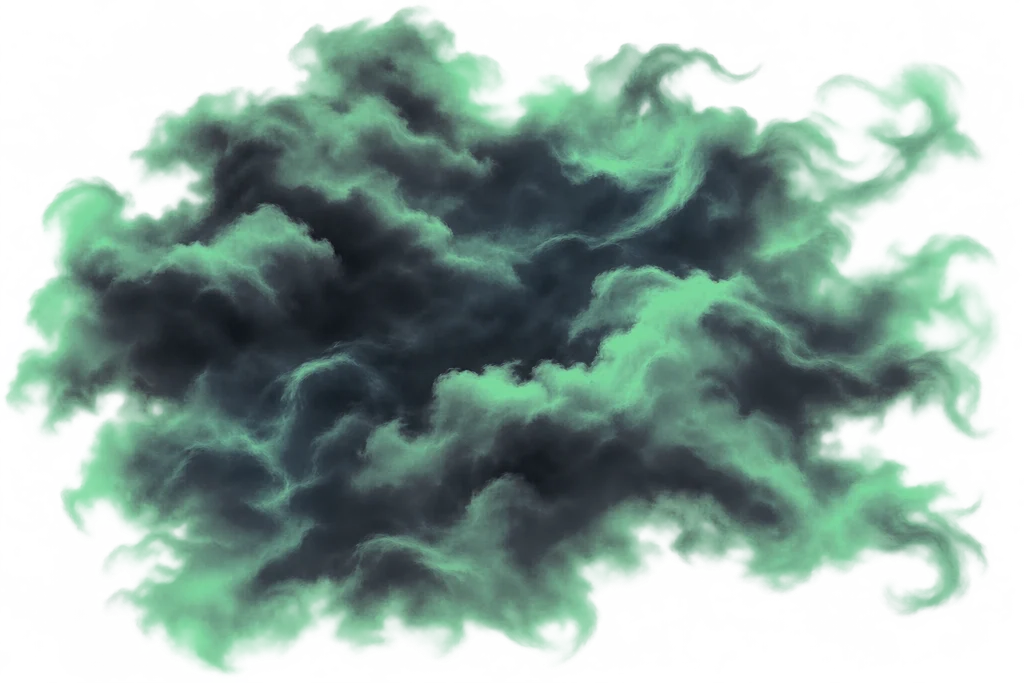
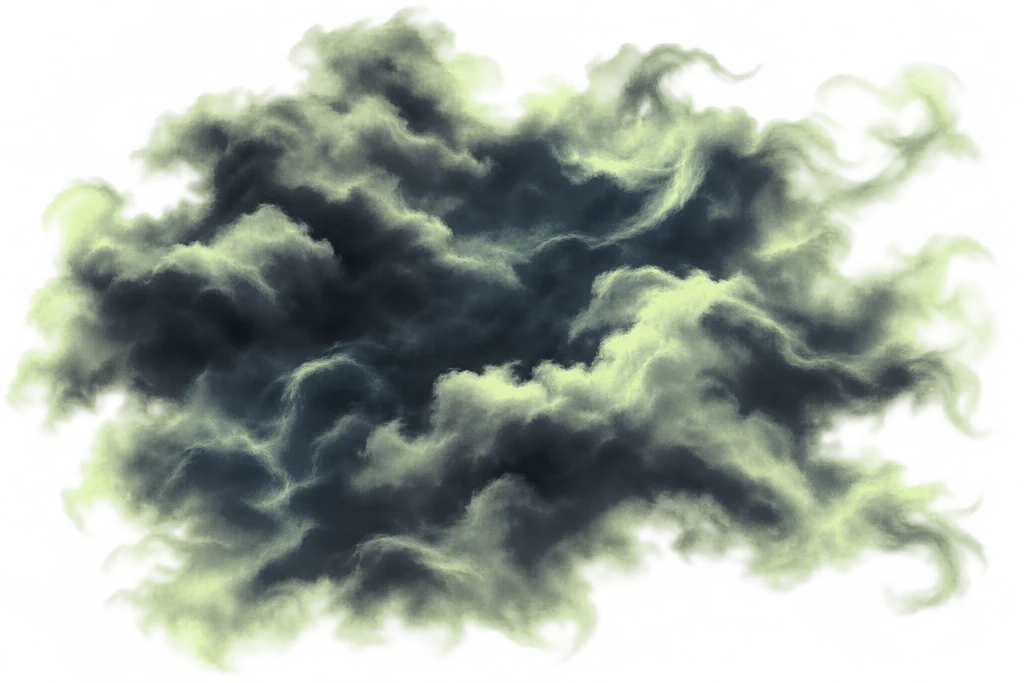
feat: improve map navigation and vitality fog

diff --git a/docs/index.html b/docs/index.html
@@ -1,4 +1,4 @@
-<!doctype html><html lang="en"><head><meta charset="utf-8"><meta name="viewport" content="width=device-width, initial-scale=1,viewport-fit=cover"><meta name="theme-color" content="#170d12"><link rel="stylesheet" href="online/style.css"><link rel="stylesheet" href="combat/action-bar.css?v=cb92b41d39d8"><script src="combat/action-bar.js?v=fd551036f4bf"></script><script src="combat/arena-hud.js?v=dd03bb5d7644"></script><title>Wanderer v0.13</title><link rel="stylesheet" href="online/v012-phase1.css?v=v012-production-ui-1"><link rel="stylesheet" href="online/ux39.css"><link rel="icon" type="image/png" sizes="32x32" href="assets/branding/wanderer-icon-32.png"><link rel="apple-touch-icon" sizes="192x192" href="assets/branding/wanderer-icon-192.png"><link rel="stylesheet" href="online/v012-core.css"><link rel="stylesheet" href="online/v012-ui4.css"><link rel="stylesheet" href="online/v012-ui4c.css"><link rel="stylesheet" href="online/v012-ui4e.css"><link rel="stylesheet" href="online/v012-ui4f.css"><link rel="stylesheet" href="online/v012-ui5-camp.css"><link rel="stylesheet" href="online/v012-ui6-unified-inventory.css"><link rel="stylesheet" href="online/v012-uiux-polish.css"><link rel="stylesheet" href="online/v012-uiux-final-qa.css"><link rel="stylesheet" href="online/v012-uiux-hotfix-oct25.css"><link rel="stylesheet" href="online/v012-uiux-round4.css"><link rel="stylesheet" href="online/v012-uiux-tuning.css?v=508ce4f90943"><link rel="stylesheet" href="online/v012-combat-passive-clarity.css"><link rel="stylesheet" href="online/v012-feedback-passive-ui.css?v=20261025-main-compact-1"><link rel="stylesheet" href="online/v012-required-auth.css?v=v012-equipped-gear-1"><link rel="stylesheet" href="online/v013-combat-arena.css?v=83568c3ba73f"><link rel="stylesheet" href="online/v013-arena-hud.css?v=34efdc897f76"><link rel="stylesheet" href="online/v013-tier-upgrade.css?v=4b68f4bdbbdc"><link rel="stylesheet" href="online/v013-stage45-map-qa.css?v=4c507abc5c2b"><link rel="stylesheet" href="online/v013-stage5-conditions.css?v=65cdb547cc5f"><link rel="stylesheet" href="online/v013-expedition-boons.css?v=d9dc85aa20f9"><link rel="stylesheet" href="online/v013-expedition-contracts.css?v=6506cd9a761b"><link rel="stylesheet" href="online/v013-gear-qol.css?v=446f088e0147"><style>#onlineBar{display:none!important}</style></head><body class="v012Preboot"><div class="container"><header class="brandRow"><div><div class="logo brandLogo" id="brandLogo"><span>WANDERER</span></div><div class="version">v0.13.0</div></div><div id="onlineBar" class="onlineBar"><button type="button" id="menuToggle" class="mobileMenuToggle" aria-label="Open account and leaderboard menu" aria-controls="onlineActions" aria-expanded="false"><span></span><span></span><span></span></button><div id="onlineActions" class="buttonRow"><button class="tiny" data-online-action="account">Account & Character</button><button class="tiny" data-online-action="leaderboard">Leaderboard</button><button class="tiny" data-online-action="feedback">Feedback &amp; Bugs</button></div></div></header><div class="headerBottom"><nav id="nav" class="nav" inert></nav><div class="wallet" id="wallet" role="region" aria-label="Resource balances"></div></div><p id="accountError" class="onlineError" role="alert" hidden></p><main id="screen" inert></main></div><div id="toast" class="toast hidden"></div><script src="combat/expedition-progression.js?v=5f55e70326b2"></script><script src="economy/v013-crafting.js?v=d1db5f26290a"></script><script src="economy/v013-gear-rolls.js?v=acb2565fb200"></script><script src="economy/v013-tier-upgrade.js?v=99a24a7a813f"></script><script src="online/v012-save.js?v=a7c18e7ade88"></script><script src="economy/v0101.js"></script><script src="combat/legendary.js"></script><script src="combat/v013-expedition-foundation.js"></script><script src="online/v013-map-intelligence.js?v=220fdeab7f5a"></script><script src="online/v013-map-fog.js?v=2848172215bc"></script><script src="online/v013-expedition-conditions.js?v=2f1becafd401"></script><script src="online/v013-expedition-boons.js?v=165a224aec70"></script><script src="online/v013-expedition-contracts.js?v=a4aa1cd73945"></script><script src="online/v013-encounter-traits.js"></script><script src="online/v013-boss-modifiers.js"></script><script src="online/v013-boss-preparation.js"></script><script src="online/v013-enemy-roster.js?v=75038d2dcc21"></script>
+<!doctype html><html lang="en"><head><meta charset="utf-8"><meta name="viewport" content="width=device-width, initial-scale=1,viewport-fit=cover"><meta name="theme-color" content="#170d12"><link rel="stylesheet" href="online/style.css"><link rel="stylesheet" href="combat/action-bar.css?v=cb92b41d39d8"><script src="combat/action-bar.js?v=fd551036f4bf"></script><script src="combat/arena-hud.js?v=dd03bb5d7644"></script><title>Wanderer v0.13</title><link rel="stylesheet" href="online/v012-phase1.css?v=v012-production-ui-1"><link rel="stylesheet" href="online/ux39.css"><link rel="icon" type="image/png" sizes="32x32" href="assets/branding/wanderer-icon-32.png"><link rel="apple-touch-icon" sizes="192x192" href="assets/branding/wanderer-icon-192.png"><link rel="stylesheet" href="online/v012-core.css"><link rel="stylesheet" href="online/v012-ui4.css"><link rel="stylesheet" href="online/v012-ui4c.css"><link rel="stylesheet" href="online/v012-ui4e.css"><link rel="stylesheet" href="online/v012-ui4f.css"><link rel="stylesheet" href="online/v012-ui5-camp.css"><link rel="stylesheet" href="online/v012-ui6-unified-inventory.css"><link rel="stylesheet" href="online/v012-uiux-polish.css"><link rel="stylesheet" href="online/v012-uiux-final-qa.css"><link rel="stylesheet" href="online/v012-uiux-hotfix-oct25.css"><link rel="stylesheet" href="online/v012-uiux-round4.css"><link rel="stylesheet" href="online/v012-uiux-tuning.css?v=508ce4f90943"><link rel="stylesheet" href="online/v012-combat-passive-clarity.css"><link rel="stylesheet" href="online/v012-feedback-passive-ui.css?v=20261025-main-compact-1"><link rel="stylesheet" href="online/v012-required-auth.css?v=v012-equipped-gear-1"><link rel="stylesheet" href="online/v013-combat-arena.css?v=83568c3ba73f"><link rel="stylesheet" href="online/v013-arena-hud.css?v=34efdc897f76"><link rel="stylesheet" href="online/v013-tier-upgrade.css?v=4b68f4bdbbdc"><link rel="stylesheet" href="online/v013-stage45-map-qa.css?v=1bc233df9f40"><link rel="stylesheet" href="online/v013-stage5-conditions.css?v=65cdb547cc5f"><link rel="stylesheet" href="online/v013-expedition-boons.css?v=d9dc85aa20f9"><link rel="stylesheet" href="online/v013-expedition-contracts.css?v=6506cd9a761b"><link rel="stylesheet" href="online/v013-gear-qol.css?v=446f088e0147"><style>#onlineBar{display:none!important}</style></head><body class="v012Preboot"><div class="container"><header class="brandRow"><div><div class="logo brandLogo" id="brandLogo"><span>WANDERER</span></div><div class="version">v0.13.0</div></div><div id="onlineBar" class="onlineBar"><button type="button" id="menuToggle" class="mobileMenuToggle" aria-label="Open account and leaderboard menu" aria-controls="onlineActions" aria-expanded="false"><span></span><span></span><span></span></button><div id="onlineActions" class="buttonRow"><button class="tiny" data-online-action="account">Account & Character</button><button class="tiny" data-online-action="leaderboard">Leaderboard</button><button class="tiny" data-online-action="feedback">Feedback &amp; Bugs</button></div></div></header><div class="headerBottom"><nav id="nav" class="nav" inert></nav><div class="wallet" id="wallet" role="region" aria-label="Resource balances"></div></div><p id="accountError" class="onlineError" role="alert" hidden></p><main id="screen" inert></main></div><div id="toast" class="toast hidden"></div><script src="combat/expedition-progression.js?v=5f55e70326b2"></script><script src="economy/v013-crafting.js?v=d1db5f26290a"></script><script src="economy/v013-gear-rolls.js?v=acb2565fb200"></script><script src="economy/v013-tier-upgrade.js?v=99a24a7a813f"></script><script src="online/v012-save.js?v=a7c18e7ade88"></script><script src="economy/v0101.js"></script><script src="combat/legendary.js"></script><script src="combat/v013-expedition-foundation.js"></script><script src="online/v013-map-intelligence.js?v=220fdeab7f5a"></script><script src="online/v013-map-fog.js?v=ef58ba907563"></script><script src="online/v013-expedition-conditions.js?v=2f1becafd401"></script><script src="online/v013-expedition-boons.js?v=165a224aec70"></script><script src="online/v013-expedition-contracts.js?v=a4aa1cd73945"></script><script src="online/v013-encounter-traits.js"></script><script src="online/v013-boss-modifiers.js"></script><script src="online/v013-boss-preparation.js"></script><script src="online/v013-enemy-roster.js?v=75038d2dcc21"></script>
 <script src="online/v013-enemy-abilities.js?v=866211ebdefa"></script>
 <script src="online/v013-elite-abilities.js?v=d13c8025441c"></script>
 <script src="online/v013-boss-infrastructure.js?v=149b9a3cd961"></script>
@@ -1848,7 +1848,7 @@ function dungeonMapMarkup(g){
  const contract=globalThis.WandererV013ExpeditionContracts?.inspect(g);
  const contractMarkup=contract?(contract.status==='ignored'?'<p class="stage7ContractStatus"><strong>Contract:</strong> Declined · No optional reward</p>':
   '<section class="stage7ContractStatus" aria-label="Contract progress"><div><strong>✦ '+esc(contract.name)+'</strong><span>'+contract.progress+' / '+contract.target+' · '+(contract.status==='ready'?'Ready to claim on extraction':contract.status==='completed'?'Reward secured':'In progress')+'</span></div><progress max="'+contract.target+'" value="'+contract.progress+'">'+contract.progress+' of '+contract.target+'</progress><small>Reward on successful extraction: '+esc(globalThis.WandererV013ExpeditionContracts.label(contract.potential))+'</small></section>'):'';
- return '<h2 class="realmMapTitle">'+esc(c.name)+'</h2><div class="realmMapLayout"><aside class="realmMapSide" aria-label="Expedition information"><details class="realmMapInfo" '+(typeof matchMedia==='function'&&matchMedia('(max-width:700px)').matches?'':'open')+'><summary>Expedition info</summary><div class="realmAtGlance">'+(contract?'<div><b>✦ '+esc(contract.name)+'</b><span>'+esc(globalThis.WandererV013ExpeditionContracts?.DESCRIPTIONS?.[contract.id]?.objective||'')+' · '+contract.progress+'/'+contract.target+' · '+(contract.status==='ready'?'Ready':contract.status==='completed'?'Complete':contract.status==='ignored'?'Declined':'In progress')+'</span></div>':'')+'<div><b>⚠ '+esc(conditionInfo?.name||'Condition')+'</b><span>'+esc(conditionGuide?.danger||'')+'</span></div><div class="realmBoonGlance"><b>✦ Boons '+boonNames.length+'/2</b><span>'+esc(boonNames.join(' · ')||'None chosen')+'</span></div></div><details class="realmBrief"><summary>More expedition details</summary>'+contractMarkup+'<p class="stage6BoonSummary"><strong>Expedition Boons ('+boonNames.length+'/2)</strong> · '+esc(boonNames.join(' · ')||'None chosen')+'</p><p class="stage5Condition"><b>⚠ '+esc(conditionInfo?.name||'Condition')+'</b> — '+esc(conditionGuide?.danger||'')+' <span>Counterplay: '+esc(conditionGuide?.counter||'')+'</span></p><p>'+realmDifficulty(c)+' · '+esc(c.family)+' affinity · '+g.history.length+' rooms cleared'+(c.clueRoom!==undefined?(d.cleared.includes(c.clueRoom)?' · Tracks lead to the outer end of passage '+(c.bossSector+1)+'.':' · Tracks between passages '+(c.bossSector+1)+' and '+(c.secondSector+1)+'. Search the inner rooms for a clearer trail.'):c.bossSector!==undefined?' · Boss trail follows passage '+(c.bossSector+1)+'.':'')+(prep?.markedElite?' · <strong>Marked Elite defeated: '+(c.risk?'one fewer boss guard':'−10% boss Attack')+'</strong>':'')+(prep?.disabledId?' · <strong>Boss seal disrupted: '+esc(WandererV013BossModifiers.get(prep.disabledId)?.name||'property')+'</strong>':'')+(prep?.knownIds.length>1?' · <strong>Oracle revealed: '+esc(prep.knownIds.slice(1).map(id=>WandererV013BossModifiers.get(id)?.name||id).join(', '))+'</strong>':'')+'</p></details></details></aside><div class="realmMapMain">'+(d.steps===undefined?'':'<div class="realmSteps" role="status"><span>STEPS REMAINING</span><strong>'+d.steps+' <small>/ '+c.stepLimit+'</small></strong><span>Travel cost shown when selecting a room</span></div>')+'<div data-realm-viewport style="overflow-x:auto"><div class="realmMapCanvas" data-realm-map="'+esc(c.id)+'" data-map-affinity="'+esc(c.family)+'" style="position:relative;min-width:580px;height:'+(c.positions?'800':'225')+'px">'+fog+'<svg aria-hidden="true" style="position:absolute;width:100%;height:100%" viewBox="0 0 100 100" preserveAspectRatio="none">'+lines+'</svg>'+buttons+'</div></div><p class="realmMapScrollHint">Swipe sideways to explore the map ↔</p><div class="realmMapLegend" aria-label="Map legend"><span>⚔ Combat</span><span>✧ Shrine</span><span>? Event</span><span>✦ Elite</span><span>♛ Boss</span><span><i class="legendCurrent"></i> You</span><span><i class="legendCleared"></i> Cleared</span><span><i class="legendRoute"></i> Selected route</span><span>┄ Exit</span></div><p class="small muted realmMapNote">Select a room to preview its route and cost. Cleared rooms can reduce travel cost.</p>'+utilityPanel+'</div></div>';
+ return '<h2 class="realmMapTitle">'+esc(c.name)+'</h2><div class="realmMapLayout"><aside class="realmMapSide" aria-label="Expedition information"><details class="realmMapInfo" '+(typeof matchMedia==='function'&&matchMedia('(max-width:700px)').matches?'':'open')+'><summary>Expedition info</summary><div class="realmAtGlance">'+(contract?'<div><b>✦ '+esc(contract.name)+'</b><span>'+esc(globalThis.WandererV013ExpeditionContracts?.DESCRIPTIONS?.[contract.id]?.objective||'')+' · '+contract.progress+'/'+contract.target+' · '+(contract.status==='ready'?'Ready':contract.status==='completed'?'Complete':contract.status==='ignored'?'Declined':'In progress')+'</span></div>':'')+'<div><b>⚠ '+esc(conditionInfo?.name||'Condition')+'</b><span>'+esc(conditionGuide?.danger||'')+'</span></div><div class="realmBoonGlance"><b>✦ Boons '+boonNames.length+'/2</b><span>'+esc(boonNames.join(' · ')||'None chosen')+'</span></div></div><details class="realmBrief"><summary>More expedition details</summary>'+contractMarkup+'<p class="stage6BoonSummary"><strong>Expedition Boons ('+boonNames.length+'/2)</strong> · '+esc(boonNames.join(' · ')||'None chosen')+'</p><p class="stage5Condition"><b>⚠ '+esc(conditionInfo?.name||'Condition')+'</b> — '+esc(conditionGuide?.danger||'')+' <span>Counterplay: '+esc(conditionGuide?.counter||'')+'</span></p><p>'+realmDifficulty(c)+' · '+esc(c.family)+' affinity · '+g.history.length+' rooms cleared'+(c.clueRoom!==undefined?(d.cleared.includes(c.clueRoom)?' · Tracks lead to the outer end of passage '+(c.bossSector+1)+'.':' · Tracks between passages '+(c.bossSector+1)+' and '+(c.secondSector+1)+'. Search the inner rooms for a clearer trail.'):c.bossSector!==undefined?' · Boss trail follows passage '+(c.bossSector+1)+'.':'')+(prep?.markedElite?' · <strong>Marked Elite defeated: '+(c.risk?'one fewer boss guard':'−10% boss Attack')+'</strong>':'')+(prep?.disabledId?' · <strong>Boss seal disrupted: '+esc(WandererV013BossModifiers.get(prep.disabledId)?.name||'property')+'</strong>':'')+(prep?.knownIds.length>1?' · <strong>Oracle revealed: '+esc(prep.knownIds.slice(1).map(id=>WandererV013BossModifiers.get(id)?.name||id).join(', '))+'</strong>':'')+'</p></details></details></aside><div class="realmMapMain">'+(d.steps===undefined?'':'<div class="realmSteps" role="status"><span>STEPS REMAINING</span><strong>'+d.steps+' <small>/ '+c.stepLimit+'</small></strong><span>Travel cost shown when selecting a room</span></div>')+'<div class="realmZoomControls" role="group" aria-label="Map zoom"><button type="button" data-map-zoom="out" aria-label="Zoom out">−</button><span data-map-zoom-value aria-live="polite">100%</span><button type="button" data-map-zoom="in" aria-label="Zoom in">+</button></div><div data-realm-viewport><div class="realmMapScale"><div class="realmMapCanvas" data-realm-map="'+esc(c.id)+'" data-map-affinity="'+esc(c.family)+'" style="position:relative;min-width:580px;height:'+(c.positions?'800':'225')+'px">'+fog+'<svg aria-hidden="true" style="position:absolute;width:100%;height:100%" viewBox="0 0 100 100" preserveAspectRatio="none">'+lines+'</svg>'+buttons+'</div></div><p class="realmMapScrollHint">Swipe sideways to explore the map ↔</p><div class="realmMapLegend" aria-label="Map legend"><span>⚔ Combat</span><span>✧ Shrine</span><span>? Event</span><span>✦ Elite</span><span>♛ Boss</span><span><i class="legendCurrent"></i> You</span><span><i class="legendCleared"></i> Cleared</span><span><i class="legendRoute"></i> Selected route</span><span>┄ Exit</span></div><p class="small muted realmMapNote">Select a room to preview its route and cost. Cleared rooms can reduce travel cost.</p>'+utilityPanel+'</div></div>';
 }
 function phase3ContractBlueprintPreview(prize,level){
  const id=prize?.recipeId,C=globalThis.WandererV013Crafting;
@@ -1933,6 +1933,21 @@ function renderRealmCards(g){
  Q('[data-realm-card]').forEach(b=>b.onclick=()=>{phase1Controller.chooseRealm(b.dataset.realmCard);phase1Controller.offerContracts(state.crafting?.learnedRecipes||[]);if(phase5Persist())render();});
  $('phase1BackToCamp').onclick=phase6BackToCamp;
 }
+let phase3MapView=null;
+function phase3BindRealmMap(viewport,g){
+ const canvas=viewport.querySelector('.realmMapCanvas'),scaleBox=viewport.querySelector('.realmMapScale'),controls=viewport.parentElement.querySelector('.realmZoomControls');if(!canvas||!scaleBox||!controls)return;
+ const key=[g.expedition,g.dungeon.realm,g.dungeon.foundationManifest?.seed].join(':'),saved=phase3MapView?.key===key?phase3MapView:null;
+ const mobile=matchMedia('(max-width:600px)').matches,baseWidth=Math.max(mobile?1200:580,viewport.clientWidth),baseHeight=mobile?520:800;
+ let zoom=saved?.zoom||1,drag=null,dragged=false;
+ const apply=(centerX=viewport.clientWidth/2,centerY=viewport.clientHeight/2,next=zoom)=>{const x=(viewport.scrollLeft+centerX)/zoom,y=(viewport.scrollTop+centerY)/zoom;zoom=Math.max(1,Math.min(2.5,next));canvas.style.width=baseWidth+'px';canvas.style.height=baseHeight+'px';canvas.style.transform='scale('+zoom+')';scaleBox.style.width=baseWidth*zoom+'px';scaleBox.style.height=baseHeight*zoom+'px';viewport.scrollLeft=x*zoom-centerX;viewport.scrollTop=y*zoom-centerY;controls.querySelector('[data-map-zoom-value]').textContent=Math.round(zoom*100)+'%';controls.querySelector('[data-map-zoom="out"]').disabled=zoom<=1;controls.querySelector('[data-map-zoom="in"]').disabled=zoom>=2.5;phase3MapView={key,zoom,left:viewport.scrollLeft,top:viewport.scrollTop};};
+ apply();if(saved){viewport.scrollLeft=saved.left;viewport.scrollTop=saved.top;}else{const current=viewport.querySelector('[data-dungeon-room="'+g.dungeon.current+'"]');if(current)viewport.scrollLeft=current.offsetLeft-viewport.clientWidth/2;}
+ const save=()=>{phase3MapView={key,zoom,left:viewport.scrollLeft,top:viewport.scrollTop};};viewport.addEventListener('scroll',save,{passive:true});
+ controls.querySelector('[data-map-zoom="in"]').onclick=()=>apply(undefined,undefined,zoom+.25);controls.querySelector('[data-map-zoom="out"]').onclick=()=>apply(undefined,undefined,zoom-.25);
+ viewport.addEventListener('wheel',e=>{if(!e.ctrlKey&&!e.metaKey)return;e.preventDefault();const r=viewport.getBoundingClientRect();apply(e.clientX-r.left,e.clientY-r.top,zoom+(e.deltaY<0?.25:-.25));},{passive:false});
+ viewport.addEventListener('pointerdown',e=>{if(e.button!==0||e.target.closest('button'))return;drag={x:e.clientX,y:e.clientY,left:viewport.scrollLeft,top:viewport.scrollTop};dragged=false;viewport.setPointerCapture(e.pointerId);});
+ viewport.addEventListener('pointermove',e=>{if(!drag)return;const dx=e.clientX-drag.x,dy=e.clientY-drag.y;if(Math.abs(dx)+Math.abs(dy)>4)dragged=true;viewport.scrollLeft=drag.left-dx;viewport.scrollTop=drag.top-dy;});
+ const end=()=>{drag=null;if(dragged)save();};viewport.addEventListener('pointerup',end);viewport.addEventListener('pointercancel',end);
+}
 function bindDungeonRooms(g){
  const c=phase1Controller.realmMap();
  Q('[data-stage74-potion]').forEach(button=>button.onclick=()=>{
@@ -1948,7 +1963,7 @@ function bindDungeonRooms(g){
  });
  const viewport=document.querySelector('[data-realm-viewport]');
  globalThis.WandererV013MapFog?.bind(viewport);
- if(viewport&&c.positions){const current=viewport.querySelector('[data-dungeon-room="'+g.dungeon.current+'"]');if(current)viewport.scrollLeft=current.offsetLeft-viewport.clientWidth/2;}
+ if(viewport&&c.positions)phase3BindRealmMap(viewport,g);
  Q('[data-dungeon-room]').forEach(b=>b.onclick=()=>{
   const i=Number(b.dataset.dungeonRoom),n=c.nodes[i],cleared=g.dungeon.cleared.includes(i);
   const path=phase1Controller.travelPath(i);
@@ -1971,6 +1986,7 @@ function bindDungeonRooms(g){
    if(cleared||n.kind==='shrine'){if(phase5Persist())render();}else phase1Enter();
   },cleared?'Travel here':'Enter room');
   dialog.classList.add('realmRouteDialog');
+  for(const corner of ['tl','tr','bl','br']){const ornament=document.createElement('span');ornament.className='realmDialogCorner realmDialogCorner-'+corner;ornament.setAttribute('aria-hidden','true');dialog.appendChild(ornament);}
   dialog.addEventListener('close',()=>highlighted.forEach(line=>{line.classList.remove('realmRouteSelected');line.style.removeProperty('stroke');}));
  });
 }

diff --git a/index.html b/index.html
@@ -1848,7 +1848,7 @@ function dungeonMapMarkup(g){
  const contract=globalThis.WandererV013ExpeditionContracts?.inspect(g);
  const contractMarkup=contract?(contract.status==='ignored'?'<p class="stage7ContractStatus"><strong>Contract:</strong> Declined · No optional reward</p>':
   '<section class="stage7ContractStatus" aria-label="Contract progress"><div><strong>✦ '+esc(contract.name)+'</strong><span>'+contract.progress+' / '+contract.target+' · '+(contract.status==='ready'?'Ready to claim on extraction':contract.status==='completed'?'Reward secured':'In progress')+'</span></div><progress max="'+contract.target+'" value="'+contract.progress+'">'+contract.progress+' of '+contract.target+'</progress><small>Reward on successful extraction: '+esc(globalThis.WandererV013ExpeditionContracts.label(contract.potential))+'</small></section>'):'';
- return '<h2 class="realmMapTitle">'+esc(c.name)+'</h2><div class="realmMapLayout"><aside class="realmMapSide" aria-label="Expedition information"><details class="realmMapInfo" '+(typeof matchMedia==='function'&&matchMedia('(max-width:700px)').matches?'':'open')+'><summary>Expedition info</summary><div class="realmAtGlance">'+(contract?'<div><b>✦ '+esc(contract.name)+'</b><span>'+esc(globalThis.WandererV013ExpeditionContracts?.DESCRIPTIONS?.[contract.id]?.objective||'')+' · '+contract.progress+'/'+contract.target+' · '+(contract.status==='ready'?'Ready':contract.status==='completed'?'Complete':contract.status==='ignored'?'Declined':'In progress')+'</span></div>':'')+'<div><b>⚠ '+esc(conditionInfo?.name||'Condition')+'</b><span>'+esc(conditionGuide?.danger||'')+'</span></div><div class="realmBoonGlance"><b>✦ Boons '+boonNames.length+'/2</b><span>'+esc(boonNames.join(' · ')||'None chosen')+'</span></div></div><details class="realmBrief"><summary>More expedition details</summary>'+contractMarkup+'<p class="stage6BoonSummary"><strong>Expedition Boons ('+boonNames.length+'/2)</strong> · '+esc(boonNames.join(' · ')||'None chosen')+'</p><p class="stage5Condition"><b>⚠ '+esc(conditionInfo?.name||'Condition')+'</b> — '+esc(conditionGuide?.danger||'')+' <span>Counterplay: '+esc(conditionGuide?.counter||'')+'</span></p><p>'+realmDifficulty(c)+' · '+esc(c.family)+' affinity · '+g.history.length+' rooms cleared'+(c.clueRoom!==undefined?(d.cleared.includes(c.clueRoom)?' · Tracks lead to the outer end of passage '+(c.bossSector+1)+'.':' · Tracks between passages '+(c.bossSector+1)+' and '+(c.secondSector+1)+'. Search the inner rooms for a clearer trail.'):c.bossSector!==undefined?' · Boss trail follows passage '+(c.bossSector+1)+'.':'')+(prep?.markedElite?' · <strong>Marked Elite defeated: '+(c.risk?'one fewer boss guard':'−10% boss Attack')+'</strong>':'')+(prep?.disabledId?' · <strong>Boss seal disrupted: '+esc(WandererV013BossModifiers.get(prep.disabledId)?.name||'property')+'</strong>':'')+(prep?.knownIds.length>1?' · <strong>Oracle revealed: '+esc(prep.knownIds.slice(1).map(id=>WandererV013BossModifiers.get(id)?.name||id).join(', '))+'</strong>':'')+'</p></details></details></aside><div class="realmMapMain">'+(d.steps===undefined?'':'<div class="realmSteps" role="status"><span>STEPS REMAINING</span><strong>'+d.steps+' <small>/ '+c.stepLimit+'</small></strong><span>Travel cost shown when selecting a room</span></div>')+'<div data-realm-viewport style="overflow-x:auto"><div class="realmMapCanvas" data-realm-map="'+esc(c.id)+'" data-map-affinity="'+esc(c.family)+'" style="position:relative;min-width:580px;height:'+(c.positions?'800':'225')+'px">'+fog+'<svg aria-hidden="true" style="position:absolute;width:100%;height:100%" viewBox="0 0 100 100" preserveAspectRatio="none">'+lines+'</svg>'+buttons+'</div></div><p class="realmMapScrollHint">Swipe sideways to explore the map ↔</p><div class="realmMapLegend" aria-label="Map legend"><span>⚔ Combat</span><span>✧ Shrine</span><span>? Event</span><span>✦ Elite</span><span>♛ Boss</span><span><i class="legendCurrent"></i> You</span><span><i class="legendCleared"></i> Cleared</span><span><i class="legendRoute"></i> Selected route</span><span>┄ Exit</span></div><p class="small muted realmMapNote">Select a room to preview its route and cost. Cleared rooms can reduce travel cost.</p>'+utilityPanel+'</div></div>';
+ return '<h2 class="realmMapTitle">'+esc(c.name)+'</h2><div class="realmMapLayout"><aside class="realmMapSide" aria-label="Expedition information"><details class="realmMapInfo" '+(typeof matchMedia==='function'&&matchMedia('(max-width:700px)').matches?'':'open')+'><summary>Expedition info</summary><div class="realmAtGlance">'+(contract?'<div><b>✦ '+esc(contract.name)+'</b><span>'+esc(globalThis.WandererV013ExpeditionContracts?.DESCRIPTIONS?.[contract.id]?.objective||'')+' · '+contract.progress+'/'+contract.target+' · '+(contract.status==='ready'?'Ready':contract.status==='completed'?'Complete':contract.status==='ignored'?'Declined':'In progress')+'</span></div>':'')+'<div><b>⚠ '+esc(conditionInfo?.name||'Condition')+'</b><span>'+esc(conditionGuide?.danger||'')+'</span></div><div class="realmBoonGlance"><b>✦ Boons '+boonNames.length+'/2</b><span>'+esc(boonNames.join(' · ')||'None chosen')+'</span></div></div><details class="realmBrief"><summary>More expedition details</summary>'+contractMarkup+'<p class="stage6BoonSummary"><strong>Expedition Boons ('+boonNames.length+'/2)</strong> · '+esc(boonNames.join(' · ')||'None chosen')+'</p><p class="stage5Condition"><b>⚠ '+esc(conditionInfo?.name||'Condition')+'</b> — '+esc(conditionGuide?.danger||'')+' <span>Counterplay: '+esc(conditionGuide?.counter||'')+'</span></p><p>'+realmDifficulty(c)+' · '+esc(c.family)+' affinity · '+g.history.length+' rooms cleared'+(c.clueRoom!==undefined?(d.cleared.includes(c.clueRoom)?' · Tracks lead to the outer end of passage '+(c.bossSector+1)+'.':' · Tracks between passages '+(c.bossSector+1)+' and '+(c.secondSector+1)+'. Search the inner rooms for a clearer trail.'):c.bossSector!==undefined?' · Boss trail follows passage '+(c.bossSector+1)+'.':'')+(prep?.markedElite?' · <strong>Marked Elite defeated: '+(c.risk?'one fewer boss guard':'−10% boss Attack')+'</strong>':'')+(prep?.disabledId?' · <strong>Boss seal disrupted: '+esc(WandererV013BossModifiers.get(prep.disabledId)?.name||'property')+'</strong>':'')+(prep?.knownIds.length>1?' · <strong>Oracle revealed: '+esc(prep.knownIds.slice(1).map(id=>WandererV013BossModifiers.get(id)?.name||id).join(', '))+'</strong>':'')+'</p></details></details></aside><div class="realmMapMain">'+(d.steps===undefined?'':'<div class="realmSteps" role="status"><span>STEPS REMAINING</span><strong>'+d.steps+' <small>/ '+c.stepLimit+'</small></strong><span>Travel cost shown when selecting a room</span></div>')+'<div class="realmZoomControls" role="group" aria-label="Map zoom"><button type="button" data-map-zoom="out" aria-label="Zoom out">−</button><span data-map-zoom-value aria-live="polite">100%</span><button type="button" data-map-zoom="in" aria-label="Zoom in">+</button></div><div data-realm-viewport><div class="realmMapScale"><div class="realmMapCanvas" data-realm-map="'+esc(c.id)+'" data-map-affinity="'+esc(c.family)+'" style="position:relative;min-width:580px;height:'+(c.positions?'800':'225')+'px">'+fog+'<svg aria-hidden="true" style="position:absolute;width:100%;height:100%" viewBox="0 0 100 100" preserveAspectRatio="none">'+lines+'</svg>'+buttons+'</div></div><p class="realmMapScrollHint">Swipe sideways to explore the map ↔</p><div class="realmMapLegend" aria-label="Map legend"><span>⚔ Combat</span><span>✧ Shrine</span><span>? Event</span><span>✦ Elite</span><span>♛ Boss</span><span><i class="legendCurrent"></i> You</span><span><i class="legendCleared"></i> Cleared</span><span><i class="legendRoute"></i> Selected route</span><span>┄ Exit</span></div><p class="small muted realmMapNote">Select a room to preview its route and cost. Cleared rooms can reduce travel cost.</p>'+utilityPanel+'</div></div>';
 }
 function phase3ContractBlueprintPreview(prize,level){
  const id=prize?.recipeId,C=globalThis.WandererV013Crafting;
@@ -1933,6 +1933,21 @@ function renderRealmCards(g){
  Q('[data-realm-card]').forEach(b=>b.onclick=()=>{phase1Controller.chooseRealm(b.dataset.realmCard);phase1Controller.offerContracts(state.crafting?.learnedRecipes||[]);if(phase5Persist())render();});
  $('phase1BackToCamp').onclick=phase6BackToCamp;
 }
+let phase3MapView=null;
+function phase3BindRealmMap(viewport,g){
+ const canvas=viewport.querySelector('.realmMapCanvas'),scaleBox=viewport.querySelector('.realmMapScale'),controls=viewport.parentElement.querySelector('.realmZoomControls');if(!canvas||!scaleBox||!controls)return;
+ const key=[g.expedition,g.dungeon.realm,g.dungeon.foundationManifest?.seed].join(':'),saved=phase3MapView?.key===key?phase3MapView:null;
+ const mobile=matchMedia('(max-width:600px)').matches,baseWidth=Math.max(mobile?1200:580,viewport.clientWidth),baseHeight=mobile?520:800;
+ let zoom=saved?.zoom||1,drag=null,dragged=false;
+ const apply=(centerX=viewport.clientWidth/2,centerY=viewport.clientHeight/2,next=zoom)=>{const x=(viewport.scrollLeft+centerX)/zoom,y=(viewport.scrollTop+centerY)/zoom;zoom=Math.max(1,Math.min(2.5,next));canvas.style.width=baseWidth+'px';canvas.style.height=baseHeight+'px';canvas.style.transform='scale('+zoom+')';scaleBox.style.width=baseWidth*zoom+'px';scaleBox.style.height=baseHeight*zoom+'px';viewport.scrollLeft=x*zoom-centerX;viewport.scrollTop=y*zoom-centerY;controls.querySelector('[data-map-zoom-value]').textContent=Math.round(zoom*100)+'%';controls.querySelector('[data-map-zoom="out"]').disabled=zoom<=1;controls.querySelector('[data-map-zoom="in"]').disabled=zoom>=2.5;phase3MapView={key,zoom,left:viewport.scrollLeft,top:viewport.scrollTop};};
+ apply();if(saved){viewport.scrollLeft=saved.left;viewport.scrollTop=saved.top;}else{const current=viewport.querySelector('[data-dungeon-room="'+g.dungeon.current+'"]');if(current)viewport.scrollLeft=current.offsetLeft-viewport.clientWidth/2;}
+ const save=()=>{phase3MapView={key,zoom,left:viewport.scrollLeft,top:viewport.scrollTop};};viewport.addEventListener('scroll',save,{passive:true});
+ controls.querySelector('[data-map-zoom="in"]').onclick=()=>apply(undefined,undefined,zoom+.25);controls.querySelector('[data-map-zoom="out"]').onclick=()=>apply(undefined,undefined,zoom-.25);
+ viewport.addEventListener('wheel',e=>{if(!e.ctrlKey&&!e.metaKey)return;e.preventDefault();const r=viewport.getBoundingClientRect();apply(e.clientX-r.left,e.clientY-r.top,zoom+(e.deltaY<0?.25:-.25));},{passive:false});
+ viewport.addEventListener('pointerdown',e=>{if(e.button!==0||e.target.closest('button'))return;drag={x:e.clientX,y:e.clientY,left:viewport.scrollLeft,top:viewport.scrollTop};dragged=false;viewport.setPointerCapture(e.pointerId);});
+ viewport.addEventListener('pointermove',e=>{if(!drag)return;const dx=e.clientX-drag.x,dy=e.clientY-drag.y;if(Math.abs(dx)+Math.abs(dy)>4)dragged=true;viewport.scrollLeft=drag.left-dx;viewport.scrollTop=drag.top-dy;});
+ const end=()=>{drag=null;if(dragged)save();};viewport.addEventListener('pointerup',end);viewport.addEventListener('pointercancel',end);
+}
 function bindDungeonRooms(g){
  const c=phase1Controller.realmMap();
  Q('[data-stage74-potion]').forEach(button=>button.onclick=()=>{
@@ -1948,7 +1963,7 @@ function bindDungeonRooms(g){
  });
  const viewport=document.querySelector('[data-realm-viewport]');
  globalThis.WandererV013MapFog?.bind(viewport);
- if(viewport&&c.positions){const current=viewport.querySelector('[data-dungeon-room="'+g.dungeon.current+'"]');if(current)viewport.scrollLeft=current.offsetLeft-viewport.clientWidth/2;}
+ if(viewport&&c.positions)phase3BindRealmMap(viewport,g);
  Q('[data-dungeon-room]').forEach(b=>b.onclick=()=>{
   const i=Number(b.dataset.dungeonRoom),n=c.nodes[i],cleared=g.dungeon.cleared.includes(i);
   const path=phase1Controller.travelPath(i);
@@ -1971,6 +1986,7 @@ function bindDungeonRooms(g){
    if(cleared||n.kind==='shrine'){if(phase5Persist())render();}else phase1Enter();
   },cleared?'Travel here':'Enter room');
   dialog.classList.add('realmRouteDialog');
+  for(const corner of ['tl','tr','bl','br']){const ornament=document.createElement('span');ornament.className='realmDialogCorner realmDialogCorner-'+corner;ornament.setAttribute('aria-hidden','true');dialog.appendChild(ornament);}
   dialog.addEventListener('close',()=>highlighted.forEach(line=>{line.classList.remove('realmRouteSelected');line.style.removeProperty('stroke');}));
  });
 }

diff --git a/docs/online/v013-map-fog.js b/docs/online/v013-map-fog.js
@@ -1,19 +1,19 @@
 // Visual-only Expedition fog. No map generation, routing, or save mutation.
 (function(root){'use strict';
 let previous=null;
-const colors={blood:'#ff6666',decay:'#a7d564',vitality:'#77db9c',aegis:'#ffda87',fury:'#ffad65',magic:'#9d9dff'};
+const colors={blood:'#ff6666',decay:'#a7d564',vitality:'#e2f6b0',aegis:'#ffda87',fury:'#ffad65',magic:'#9d9dff'};
 const validPoint=p=>Array.isArray(p)&&p.length===2&&p.every(Number.isFinite);
 function normalized(points,indices){return [...new Set(indices)].filter(i=>Number.isInteger(i)&&i>=0&&i<points.length&&validPoint(points[i])).sort((a,b)=>a-b);}
 function layer(id,points,indices,family,old,elapsed=0,nextIndices=indices,now=Date.now()){
- const holes=indices.map(i=>{const p=points[i];return '<ellipse cx="'+p[0]+'" cy="'+p[1]+'" rx="7.5" ry="12" fill="url(#'+id+'-hole)"/>';}).join('');
- const added=old?nextIndices.filter(i=>!indices.includes(i)&&validPoint(points[i])).map(i=>{const p=points[i];return '<ellipse cx="'+p[0]+'" cy="'+p[1]+'" rx="7.5" ry="12" fill="url(#'+id+'-light)"/>';}).join(''):'';
+ const holes=indices.map(i=>{const p=points[i];return '<ellipse cx="'+p[0]+'" cy="'+p[1]+'" rx="8.5" ry="13.2" fill="url(#'+id+'-hole)"/>';}).join('');
+ const added=old?nextIndices.filter(i=>!indices.includes(i)&&validPoint(points[i])).map(i=>{const p=points[i];return '<ellipse cx="'+p[0]+'" cy="'+p[1]+'" rx="8.5" ry="13.2" fill="url(#'+id+'-light)"/>';}).join(''):'';
  return '<svg class="realmFog '+(old?'realmFogPrevious':'realmFogCurrent')+'"'+(old?' style="animation-delay:-'+Math.min(999,Math.max(0,elapsed))+'ms"':'')+' aria-hidden="true" focusable="false" viewBox="0 0 100 100" preserveAspectRatio="none" data-fog-revealed="'+indices.length+'">'+
  '<defs><radialGradient id="'+id+'-hole"><stop offset="0" stop-color="black"/><stop offset="55%" stop-color="black"/><stop offset="100%" stop-color="black" stop-opacity="0"/></radialGradient>'+
  '<radialGradient id="'+id+'-light"><stop offset="0" stop-color="white"/><stop offset="55%" stop-color="white"/><stop offset="100%" stop-color="white" stop-opacity="0"/></radialGradient>'+
  '<mask id="'+id+'-mask" maskUnits="userSpaceOnUse" maskContentUnits="userSpaceOnUse" x="0" y="0" width="100" height="100" style="mask-type:luminance"><rect width="100" height="100" fill="'+(old?'black':'white')+'"/>'+added+holes+'</mask></defs>'+
  '<g mask="url(#'+id+'-mask)"><rect width="100" height="100" fill="#121117" fill-opacity=".35"/>'+
- '<image class="realmFogDense" style="animation-delay:-'+(now%108000)+'ms" href="assets/expedition-map/fog-dense-'+family+'.webp" x="-16" y="-16" width="132" height="132" preserveAspectRatio="none" opacity=".48"/>'+
- '<image class="realmFogDispersed" style="animation-delay:-'+(now%146000)+'ms" href="assets/expedition-map/fog-dispersed-'+family+'.webp" x="-24" y="-24" width="148" height="148" preserveAspectRatio="none" opacity=".32"/></g></svg>';
+ '<image class="realmFogDense" style="animation-delay:-'+(now%108000)+'ms" href="assets/expedition-map/fog-dense-'+family+'.webp?v=2" x="-16" y="-16" width="132" height="132" preserveAspectRatio="none" opacity=".48"/>'+
+ '<image class="realmFogDispersed" style="animation-delay:-'+(now%146000)+'ms" href="assets/expedition-map/fog-dispersed-'+family+'.webp?v=2" x="-24" y="-24" width="148" height="148" preserveAspectRatio="none" opacity=".32"/></g></svg>';
 }
 function render({key,points,revealed,family}){
  if(!Array.isArray(points)||!Array.isArray(revealed))return '';

diff --git a/online/v013-map-fog.js b/online/v013-map-fog.js
@@ -1,19 +1,19 @@
 // Visual-only Expedition fog. No map generation, routing, or save mutation.
 (function(root){'use strict';
 let previous=null;
-const colors={blood:'#ff6666',decay:'#a7d564',vitality:'#77db9c',aegis:'#ffda87',fury:'#ffad65',magic:'#9d9dff'};
+const colors={blood:'#ff6666',decay:'#a7d564',vitality:'#e2f6b0',aegis:'#ffda87',fury:'#ffad65',magic:'#9d9dff'};
 const validPoint=p=>Array.isArray(p)&&p.length===2&&p.every(Number.isFinite);
 function normalized(points,indices){return [...new Set(indices)].filter(i=>Number.isInteger(i)&&i>=0&&i<points.length&&validPoint(points[i])).sort((a,b)=>a-b);}
 function layer(id,points,indices,family,old,elapsed=0,nextIndices=indices,now=Date.now()){
- const holes=indices.map(i=>{const p=points[i];return '<ellipse cx="'+p[0]+'" cy="'+p[1]+'" rx="7.5" ry="12" fill="url(#'+id+'-hole)"/>';}).join('');
- const added=old?nextIndices.filter(i=>!indices.includes(i)&&validPoint(points[i])).map(i=>{const p=points[i];return '<ellipse cx="'+p[0]+'" cy="'+p[1]+'" rx="7.5" ry="12" fill="url(#'+id+'-light)"/>';}).join(''):'';
+ const holes=indices.map(i=>{const p=points[i];return '<ellipse cx="'+p[0]+'" cy="'+p[1]+'" rx="8.5" ry="13.2" fill="url(#'+id+'-hole)"/>';}).join('');
+ const added=old?nextIndices.filter(i=>!indices.includes(i)&&validPoint(points[i])).map(i=>{const p=points[i];return '<ellipse cx="'+p[0]+'" cy="'+p[1]+'" rx="8.5" ry="13.2" fill="url(#'+id+'-light)"/>';}).join(''):'';
  return '<svg class="realmFog '+(old?'realmFogPrevious':'realmFogCurrent')+'"'+(old?' style="animation-delay:-'+Math.min(999,Math.max(0,elapsed))+'ms"':'')+' aria-hidden="true" focusable="false" viewBox="0 0 100 100" preserveAspectRatio="none" data-fog-revealed="'+indices.length+'">'+
  '<defs><radialGradient id="'+id+'-hole"><stop offset="0" stop-color="black"/><stop offset="55%" stop-color="black"/><stop offset="100%" stop-color="black" stop-opacity="0"/></radialGradient>'+
  '<radialGradient id="'+id+'-light"><stop offset="0" stop-color="white"/><stop offset="55%" stop-color="white"/><stop offset="100%" stop-color="white" stop-opacity="0"/></radialGradient>'+
  '<mask id="'+id+'-mask" maskUnits="userSpaceOnUse" maskContentUnits="userSpaceOnUse" x="0" y="0" width="100" height="100" style="mask-type:luminance"><rect width="100" height="100" fill="'+(old?'black':'white')+'"/>'+added+holes+'</mask></defs>'+
  '<g mask="url(#'+id+'-mask)"><rect width="100" height="100" fill="#121117" fill-opacity=".35"/>'+
- '<image class="realmFogDense" style="animation-delay:-'+(now%108000)+'ms" href="assets/expedition-map/fog-dense-'+family+'.webp" x="-16" y="-16" width="132" height="132" preserveAspectRatio="none" opacity=".48"/>'+
- '<image class="realmFogDispersed" style="animation-delay:-'+(now%146000)+'ms" href="assets/expedition-map/fog-dispersed-'+family+'.webp" x="-24" y="-24" width="148" height="148" preserveAspectRatio="none" opacity=".32"/></g></svg>';
+ '<image class="realmFogDense" style="animation-delay:-'+(now%108000)+'ms" href="assets/expedition-map/fog-dense-'+family+'.webp?v=2" x="-16" y="-16" width="132" height="132" preserveAspectRatio="none" opacity=".48"/>'+
+ '<image class="realmFogDispersed" style="animation-delay:-'+(now%146000)+'ms" href="assets/expedition-map/fog-dispersed-'+family+'.webp?v=2" x="-24" y="-24" width="148" height="148" preserveAspectRatio="none" opacity=".32"/></g></svg>';
 }
 function render({key,points,revealed,family}){
  if(!Array.isArray(points)||!Array.isArray(revealed))return '';

diff --git a/docs/online/v013-stage45-map-qa.css b/docs/online/v013-stage45-map-qa.css
@@ -127,3 +127,17 @@ body.phase3IntegratedPreview dialog.realmRouteDialog[open]{position:fixed;inset:
 @keyframes realmFogDriftB{from{transform:translate(1%,-.5%)}to{transform:translate(-1%,.5%)}}
 @media(prefers-reduced-motion:reduce){.realmFogDense,.realmFogDispersed{animation:none}.realmFogPrevious{display:none}}
 .realmMapTitle{text-align:center}
+
+/* Route dialog and map navigation */
+body.phase3IntegratedPreview dialog.realmRouteDialog[open]{inset:0!important;margin:auto!important;max-height:min(80vh,600px);overflow:auto;clip-path:none;background:#211c20;position:fixed}
+body.phase3IntegratedPreview dialog.realmRouteDialog>.gothic-corner-layer{display:none!important}
+.realmDialogCorner{position:absolute;width:32px;height:32px;background:url('../assets/ui-kit/gothic-corners/standard-tr.png') center/contain no-repeat;pointer-events:none;z-index:2}
+.realmDialogCorner-tr{right:0;top:0}.realmDialogCorner-tl{left:0;top:0;transform:scaleX(-1)}.realmDialogCorner-br{right:0;bottom:0;transform:scaleY(-1)}.realmDialogCorner-bl{left:0;bottom:0;transform:rotate(180deg)}
+@media(min-width:701px){.realmMapSide{width:min(270px,30%)}.realmMapSide .realmAtGlance>div,.realmMapSide .realmBrief,.realmMapSide .realmMapInfo summary{font-size:1rem;line-height:1.4}.realmMapLegend{font-size:.95rem;line-height:1.4}}
+.realmZoomControls{position:absolute;top:55px;left:8px;z-index:6;display:flex;align-items:center;gap:4px;background:#1a1518ed;border:1px solid #94734a;padding:3px;color:#f2d7a1;font-size:.8rem}
+.realmZoomControls button{min-width:34px;width:34px;height:32px;min-height:32px;padding:0;font-size:1.2rem}.realmZoomControls span{min-width:38px;text-align:center}
+[data-realm-viewport]{height:800px;overflow:auto!important;touch-action:none;cursor:grab;overscroll-behavior:contain;scrollbar-width:thin}
+[data-realm-viewport]:active{cursor:grabbing}
+[data-realm-viewport]>.realmMapScale{position:relative;min-width:0!important;height:auto;overflow:visible}
+[data-realm-viewport] .realmMapCanvas{position:absolute!important;left:0;top:0;min-width:0!important;transform-origin:0 0}
+@media(max-width:600px){[data-realm-viewport]{height:520px;overflow:auto!important}[data-realm-viewport]>.realmMapScale{height:auto!important}.realmZoomControls{top:49px}.realmMapScrollHint{display:block}}

diff --git a/online/v013-stage45-map-qa.css b/online/v013-stage45-map-qa.css
@@ -127,3 +127,17 @@ body.phase3IntegratedPreview dialog.realmRouteDialog[open]{position:fixed;inset:
 @keyframes realmFogDriftB{from{transform:translate(1%,-.5%)}to{transform:translate(-1%,.5%)}}
 @media(prefers-reduced-motion:reduce){.realmFogDense,.realmFogDispersed{animation:none}.realmFogPrevious{display:none}}
 .realmMapTitle{text-align:center}
+
+/* Route dialog and map navigation */
+body.phase3IntegratedPreview dialog.realmRouteDialog[open]{inset:0!important;margin:auto!important;max-height:min(80vh,600px);overflow:auto;clip-path:none;background:#211c20;position:fixed}
+body.phase3IntegratedPreview dialog.realmRouteDialog>.gothic-corner-layer{display:none!important}
+.realmDialogCorner{position:absolute;width:32px;height:32px;background:url('../assets/ui-kit/gothic-corners/standard-tr.png') center/contain no-repeat;pointer-events:none;z-index:2}
+.realmDialogCorner-tr{right:0;top:0}.realmDialogCorner-tl{left:0;top:0;transform:scaleX(-1)}.realmDialogCorner-br{right:0;bottom:0;transform:scaleY(-1)}.realmDialogCorner-bl{left:0;bottom:0;transform:rotate(180deg)}
+@media(min-width:701px){.realmMapSide{width:min(270px,30%)}.realmMapSide .realmAtGlance>div,.realmMapSide .realmBrief,.realmMapSide .realmMapInfo summary{font-size:1rem;line-height:1.4}.realmMapLegend{font-size:.95rem;line-height:1.4}}
+.realmZoomControls{position:absolute;top:55px;left:8px;z-index:6;display:flex;align-items:center;gap:4px;background:#1a1518ed;border:1px solid #94734a;padding:3px;color:#f2d7a1;font-size:.8rem}
+.realmZoomControls button{min-width:34px;width:34px;height:32px;min-height:32px;padding:0;font-size:1.2rem}.realmZoomControls span{min-width:38px;text-align:center}
+[data-realm-viewport]{height:800px;overflow:auto!important;touch-action:none;cursor:grab;overscroll-behavior:contain;scrollbar-width:thin}
+[data-realm-viewport]:active{cursor:grabbing}
+[data-realm-viewport]>.realmMapScale{position:relative;min-width:0!important;height:auto;overflow:visible}
+[data-realm-viewport] .realmMapCanvas{position:absolute!important;left:0;top:0;min-width:0!important;transform-origin:0 0}
+@media(max-width:600px){[data-realm-viewport]{height:520px;overflow:auto!important}[data-realm-viewport]>.realmMapScale{height:auto!important}.realmZoomControls{top:49px}.realmMapScrollHint{display:block}}
